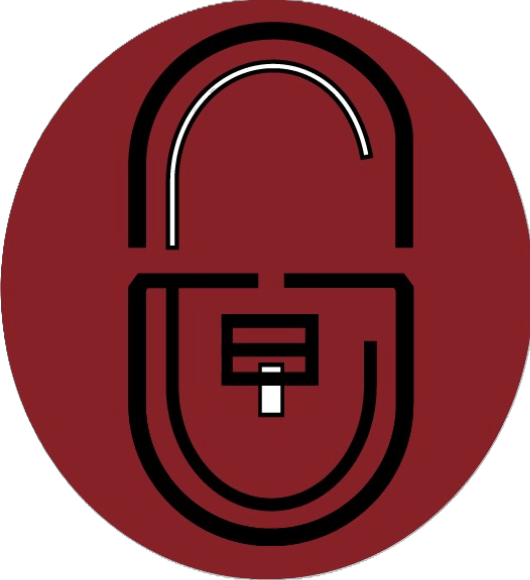
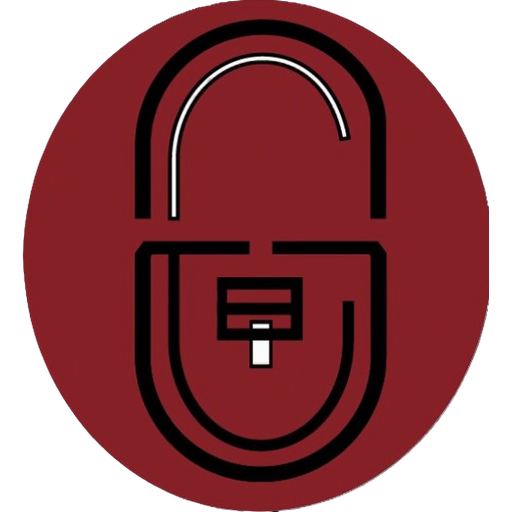
BUG and STYLE -  palette colors and headers

diff --git a/src/components/horror/RoomCard.tsx b/src/components/horror/RoomCard.tsx
@@ -1,62 +1,43 @@
-import { existsSync } from "node:fs";
-import path from "node:path";
 import Image from "next/image";
 import Link from "next/link";
+import { getRoomImageSrc } from "@/app/_lib/site/room-image";
 import { SkullRating } from "@/components/horror/SkullRating";
 import type { RoomSummary } from "@/types";
 
 type RoomCardProps = {
   room: RoomSummary;
+  /** Imposta priority/eager per l'immagine above-the-fold (LCP). */
+  priority?: boolean;
 };
 
-export function RoomCard({ room }: RoomCardProps) {
-  const imageSrc = `/rooms/${room.slug}.jpg`;
+export function RoomCard({ room, priority = false }: RoomCardProps) {
+  const imageSrc = getRoomImageSrc(room.slug);
   const unavailable = !room.isActive;
-
-  // #region agent log
-  {
-    const absPath = path.join(process.cwd(), "public", "rooms", `${room.slug}.jpg`);
-    const fileExists = existsSync(absPath);
-    fetch("http://127.0.0.1:7653/ingest/b95a8c87-326d-496a-8bbf-ad6c9410be8d", {
-      method: "POST",
-      headers: {
-        "Content-Type": "application/json",
-        "X-Debug-Session-Id": "4d555f",
-      },
-      body: JSON.stringify({
-        sessionId: "4d555f",
-        runId: "pre-fix",
-        hypothesisId: "A",
-        location: "RoomCard.tsx:imageSrc",
-        message: "Room card image path check",
-        data: {
-          slug: room.slug,
-          imageSrc,
-          fileExists,
-          isActive: room.isActive,
-        },
-        timestamp: Date.now(),
-      }),
-    }).catch(() => {});
-  }
-  // #endregion
 
   const card = (
     <div
       className={`room-card flex h-full flex-col overflow-hidden rounded-md border bg-void-deep shadow-[0_0_20px_rgba(0,0,0,0.6)] transition-shadow ${
         unavailable
           ? "border-blood/50 opacity-90"
-          : "hover:animate-glitch-hover border-void-mist hover:shadow-[0_0_30px_rgba(153,0,0,0.4)]"
+          : "hover:animate-glitch-hover border-void-mist hover:shadow-[0_0_30px_rgba(133,32,38,0.4)]"
       }`}
     >
       <div className="relative aspect-16/10 w-full overflow-hidden bg-void">
-        <Image
-          src={imageSrc}
-          alt=""
-          fill
-          className={`object-cover ${unavailable ? "grayscale-40" : ""}`}
-          sizes="(max-width: 640px) 100vw, (max-width: 1024px) 50vw, 33vw"
-        />
+        {imageSrc ? (
+          <Image
+            src={imageSrc}
+            alt=""
+            fill
+            priority={priority}
+            className={`object-cover ${unavailable ? "grayscale-40" : ""}`}
+            sizes="(max-width: 640px) 100vw, (max-width: 1024px) 50vw, 33vw"
+          />
+        ) : (
+          <div
+            aria-hidden
+            className={`absolute inset-0 bg-linear-to-br from-void via-void-deep to-blood/20 ${unavailable ? "grayscale-40" : ""}`}
+          />
+        )}
 
         {unavailable ? (
           <>
@@ -65,7 +46,7 @@ export function RoomCard({ room }: RoomCardProps) {
               aria-hidden
               className="pointer-events-none absolute inset-0 z-10"
             >
-              <div className="absolute top-1/2 left-[-20%] h-1 w-[140%] -translate-y-1/2 rotate-[-18deg] bg-blood shadow-[0_0_12px_rgba(153,0,0,0.8)]" />
+              <div className="absolute top-1/2 left-[-20%] h-1 w-[140%] -translate-y-1/2 rotate-[-18deg] bg-blood shadow-[0_0_12px_rgba(133,32,38,0.8)]" />
             </div>
             <div className="absolute inset-0 z-20 flex items-center justify-center bg-void/55">
               <span className="border border-blood bg-void-deep/90 px-4 py-2 font-heading text-sm tracking-[0.2em] text-blood-bright uppercase sm:text-base">

diff --git a/src/lib/dal.ts b/src/lib/dal.ts
@@ -11,56 +11,8 @@ import { logError } from "@/lib/logger";
 // stessa request non pagano round-trip multipli.
 export const getCurrentSession = cache(async () => {
   try {
-    const session = await auth.api.getSession({ headers: await headers() });
-    // #region agent log
-    fetch("http://127.0.0.1:7653/ingest/b95a8c87-326d-496a-8bbf-ad6c9410be8d", {
-      method: "POST",
-      headers: {
-        "Content-Type": "application/json",
-        "X-Debug-Session-Id": "4d555f",
-      },
-      body: JSON.stringify({
-        sessionId: "4d555f",
-        runId: "pre-fix",
-        hypothesisId: "D",
-        location: "dal.ts:getCurrentSession:ok",
-        message: "Session lookup succeeded",
-        data: { hasUser: Boolean(session?.user) },
-        timestamp: Date.now(),
-      }),
-    }).catch(() => {});
-    // #endregion
-    return session;
+    return await auth.api.getSession({ headers: await headers() });
   } catch (error) {
-    // #region agent log
-    {
-      const err = error as {
-        code?: string;
-        message?: string;
-        meta?: { driverAdapterError?: { name?: string } };
-      };
-      fetch("http://127.0.0.1:7653/ingest/b95a8c87-326d-496a-8bbf-ad6c9410be8d", {
-        method: "POST",
-        headers: {
-          "Content-Type": "application/json",
-          "X-Debug-Session-Id": "4d555f",
-        },
-        body: JSON.stringify({
-          sessionId: "4d555f",
-          runId: "pre-fix",
-          hypothesisId: "C",
-          location: "dal.ts:getCurrentSession:error",
-          message: "Session lookup failed",
-          data: {
-            code: err?.code ?? null,
-            message: error instanceof Error ? error.message : String(error),
-            driverError: err?.meta?.driverAdapterError?.name ?? null,
-          },
-          timestamp: Date.now(),
-        }),
-      }).catch(() => {});
-    }
-    // #endregion
     logError("getCurrentSession", "Session lookup failed", {
       message: error instanceof Error ? error.message : String(error),
     });

diff --git a/src/components/horror/Hero.tsx b/src/components/horror/Hero.tsx
@@ -11,7 +11,11 @@ export function Hero() {
       <div className="relative z-10 flex max-w-3xl flex-col items-center gap-6">
         <div
           aria-hidden="true"
-          className="pointer-events-none absolute left-1/2 top-1/2 h-[140%] w-[min(100%,28rem)] -translate-x-1/2 -translate-y-1/2 rounded-[50%] bg-void-deep/75 blur-2xl sm:w-[min(100%,36rem)]"
+          className="pointer-events-none absolute left-1/2 top-1/2 aspect-square w-[min(130vw,42rem)] -translate-x-1/2 -translate-y-1/2 rounded-full blur-3xl sm:w-[min(90vw,48rem)]"
+          style={{
+            background:
+              "radial-gradient(circle at center, rgba(3,3,3,0.78) 0%, rgba(3,3,3,0.4) 25%, rgba(3,3,3,0.15) 45%, transparent 62%)",
+          }}
         />
 
         <h1 className="relative font-heading text-5xl text-blood-bright sm:text-7xl">
@@ -26,7 +30,7 @@ export function Hero() {
         <div className="hero-cta relative">
           <Link
             href="/rooms"
-            className="hover:animate-glitch-hover inline-block rounded-sm border-2 border-blood bg-blood/20 px-6 py-3 text-base font-semibold uppercase tracking-widest text-bone shadow-[0_0_25px_rgba(153,0,0,0.5)] transition-colors hover:bg-blood/40 sm:px-10 sm:py-4 sm:text-lg"
+            className="hover:animate-glitch-hover inline-block rounded-sm border-2 border-blood bg-blood/20 px-6 py-3 text-base font-semibold uppercase tracking-widest text-bone shadow-[0_0_25px_rgba(133,32,38,0.5)] transition-colors hover:bg-blood/40 sm:px-10 sm:py-4 sm:text-lg"
           >
             Prenota se hai coraggio
           </Link>

diff --git a/src/app/_lib/prisma.ts b/src/app/_lib/prisma.ts
@@ -24,48 +24,6 @@ function getOrCreatePool(): Pool {
     idleTimeoutMillis: 30_000,
   })
 
-  // #region agent log
-  pool.on('error', (err) => {
-    fetch('http://127.0.0.1:7653/ingest/b95a8c87-326d-496a-8bbf-ad6c9410be8d', {
-      method: 'POST',
-      headers: {
-        'Content-Type': 'application/json',
-        'X-Debug-Session-Id': '4d555f',
-      },
-      body: JSON.stringify({
-        sessionId: '4d555f',
-        runId: 'pre-fix',
-        hypothesisId: 'E',
-        location: 'prisma.ts:pool.on(error)',
-        message: 'pg pool error',
-        data: { message: err.message, name: err.name },
-        timestamp: Date.now(),
-      }),
-    }).catch(() => {})
-  })
-  fetch('http://127.0.0.1:7653/ingest/b95a8c87-326d-496a-8bbf-ad6c9410be8d', {
-    method: 'POST',
-    headers: {
-      'Content-Type': 'application/json',
-      'X-Debug-Session-Id': '4d555f',
-    },
-    body: JSON.stringify({
-      sessionId: '4d555f',
-      runId: 'pre-fix',
-      hypothesisId: 'E',
-      location: 'prisma.ts:getOrCreatePool',
-      message: 'Created pg pool',
-      data: {
-        host: connectionUrl.hostname,
-        usesPooler: connectionUrl.hostname.includes('-pooler'),
-        max: 10,
-        connectionTimeoutMillis: 15_000,
-      },
-      timestamp: Date.now(),
-    }),
-  }).catch(() => {})
-  // #endregion
-
   globalForPrisma.pgPool = pool
   return pool
 }

diff --git a/src/app/rooms/[slug]/page.tsx b/src/app/rooms/[slug]/page.tsx
@@ -46,27 +46,11 @@ export default async function RoomDetailPage({
 }: RoomDetailPageProps) {
   const { slug } = await params;
 
-  // #region agent log
-  {
-    const looksLikeAsset = /\.(jpe?g|png|webp|gif|svg)$/i.test(slug);
-    fetch("http://127.0.0.1:7653/ingest/b95a8c87-326d-496a-8bbf-ad6c9410be8d", {
-      method: "POST",
-      headers: {
-        "Content-Type": "application/json",
-        "X-Debug-Session-Id": "4d555f",
-      },
-      body: JSON.stringify({
-        sessionId: "4d555f",
-        runId: "pre-fix",
-        hypothesisId: "B",
-        location: "rooms/[slug]/page.tsx:entry",
-        message: "Dynamic room route hit",
-        data: { slug, looksLikeAsset },
-        timestamp: Date.now(),
-      }),
-    }).catch(() => {});
+  // Evita che /rooms/foo.jpg (file assente in public/) venga trattato come slug
+  // e restituisca HTML 200 a next/image.
+  if (/\.(jpe?g|png|webp|gif|svg)$/i.test(slug)) {
+    notFound();
   }
-  // #endregion
 
   const room = await getRoomWithPricing(slug);
 

diff --git a/next.config.ts b/next.config.ts
@@ -2,16 +2,15 @@ import type { NextConfig } from "next";
 
 const isDev = process.env.NODE_ENV === "development";
 
-// Nessuno script/iframe di terze parti e' caricato lato client (Stripe Checkout
-// e' hosted: si naviga via redirect a checkout.stripe.com, non si carica
-// js.stripe.com in pagina), quindi la CSP puo' restare stretta su 'self'.
+// Stripe Checkout e' hosted (redirect), ma Analytics/Speed Insights caricano
+// script da va.vercel-scripts.com — vanno allowlistati esplicitamente.
 const cspHeader = `
   default-src 'self';
-  script-src 'self' 'unsafe-inline'${isDev ? " 'unsafe-eval'" : ""};
+  script-src 'self' 'unsafe-inline'${isDev ? " 'unsafe-eval'" : ""} https://va.vercel-scripts.com;
   style-src 'self' 'unsafe-inline';
   img-src 'self' blob: data:;
   font-src 'self';
-  connect-src 'self' https://vitals.vercel-insights.com;
+  connect-src 'self' https://vitals.vercel-insights.com https://va.vercel-scripts.com;
   object-src 'none';
   base-uri 'self';
   form-action 'self';

diff --git a/src/components/horror/FogOverlay.tsx b/src/components/horror/FogOverlay.tsx
@@ -4,9 +4,9 @@ export function FogOverlay() {
       aria-hidden="true"
       className="pointer-events-none absolute inset-0 overflow-hidden"
     >
-      <div className="animate-fog-drift absolute -inset-x-1/4 top-1/3 h-64 rounded-full bg-void-mist/40 blur-3xl md:bg-void-mist/60" />
+      <div className="animate-fog-drift absolute left-1/2 top-1/3 h-64 w-[min(90%,28rem)] -translate-x-1/2 rounded-full bg-void-mist/40 blur-3xl sm:w-[min(80%,32rem)]" />
       <div
-        className="animate-fog-drift absolute -inset-x-1/3 top-1/2 h-72 rounded-full bg-void-mist/25 blur-3xl md:bg-void-mist/40"
+        className="animate-fog-drift absolute left-1/2 top-1/2 h-72 w-[min(95%,32rem)] -translate-x-1/2 rounded-full bg-void-mist/25 blur-3xl sm:w-[min(85%,36rem)]"
         style={{ animationDelay: "-9s" }}
       />
     </div>

diff --git a/src/components/horror/RoomsGrid.tsx b/src/components/horror/RoomsGrid.tsx
@@ -14,10 +14,16 @@ export function RoomsGrid({ rooms }: RoomsGridProps) {
     );
   }
 
+  const lcpSlug = rooms.find((room) => room.isActive)?.slug ?? rooms[0]?.slug;
+
   return (
     <div className="grid gap-8 sm:grid-cols-2 lg:grid-cols-3">
       {rooms.map((room) => (
-        <RoomCard key={room.id} room={room} />
+        <RoomCard
+          key={room.id}
+          room={room}
+          priority={room.slug === lcpSlug}
+        />
       ))}
     </div>
   );

diff --git a/src/components/horror/SiteNavClient.tsx b/src/components/horror/SiteNavClient.tsx
@@ -173,7 +173,7 @@ export function SiteNavClient({ user }: SiteNavClientProps) {
           className="inline-flex items-center gap-2 font-heading text-lg text-blood-bright transition-colors hover:text-blood sm:gap-2.5 sm:text-xl md:justify-self-start"
         >
           <img
-            src="/Icon.png"
+            src="/icon-trasparent.png"
             alt=""
             width={32}
             height={32}

diff --git a/src/app/_lib/site/room-image.ts b/src/app/_lib/site/room-image.ts
@@ -1,0 +1,9 @@
+import { existsSync } from "node:fs";
+import path from "node:path";
+
+/** Path pubblico della cover stanza, o null se il file non esiste in /public. */
+export function getRoomImageSrc(slug: string): string | null {
+  const filename = `${slug}.jpg`;
+  const absPath = path.join(process.cwd(), "public", "rooms", filename);
+  return existsSync(absPath) ? `/rooms/${filename}` : null;
+}

diff --git a/src/app/globals.css b/src/app/globals.css
@@ -1,11 +1,12 @@
 @import "tailwindcss";
 
 @theme {
+  /* Brand red = exact logo fill (mode RGB 133,32,38) */
   --color-void: #0a0a0a;
   --color-void-deep: #030303;
   --color-void-mist: #161616;
-  --color-blood: #990000;
-  --color-blood-bright: #cc1a1a;
+  --color-blood: #701a20;
+  --color-blood-bright: #852026;
   --color-ectoplasm: #39ff88;
   --color-bone: #e8e2d6;
 
